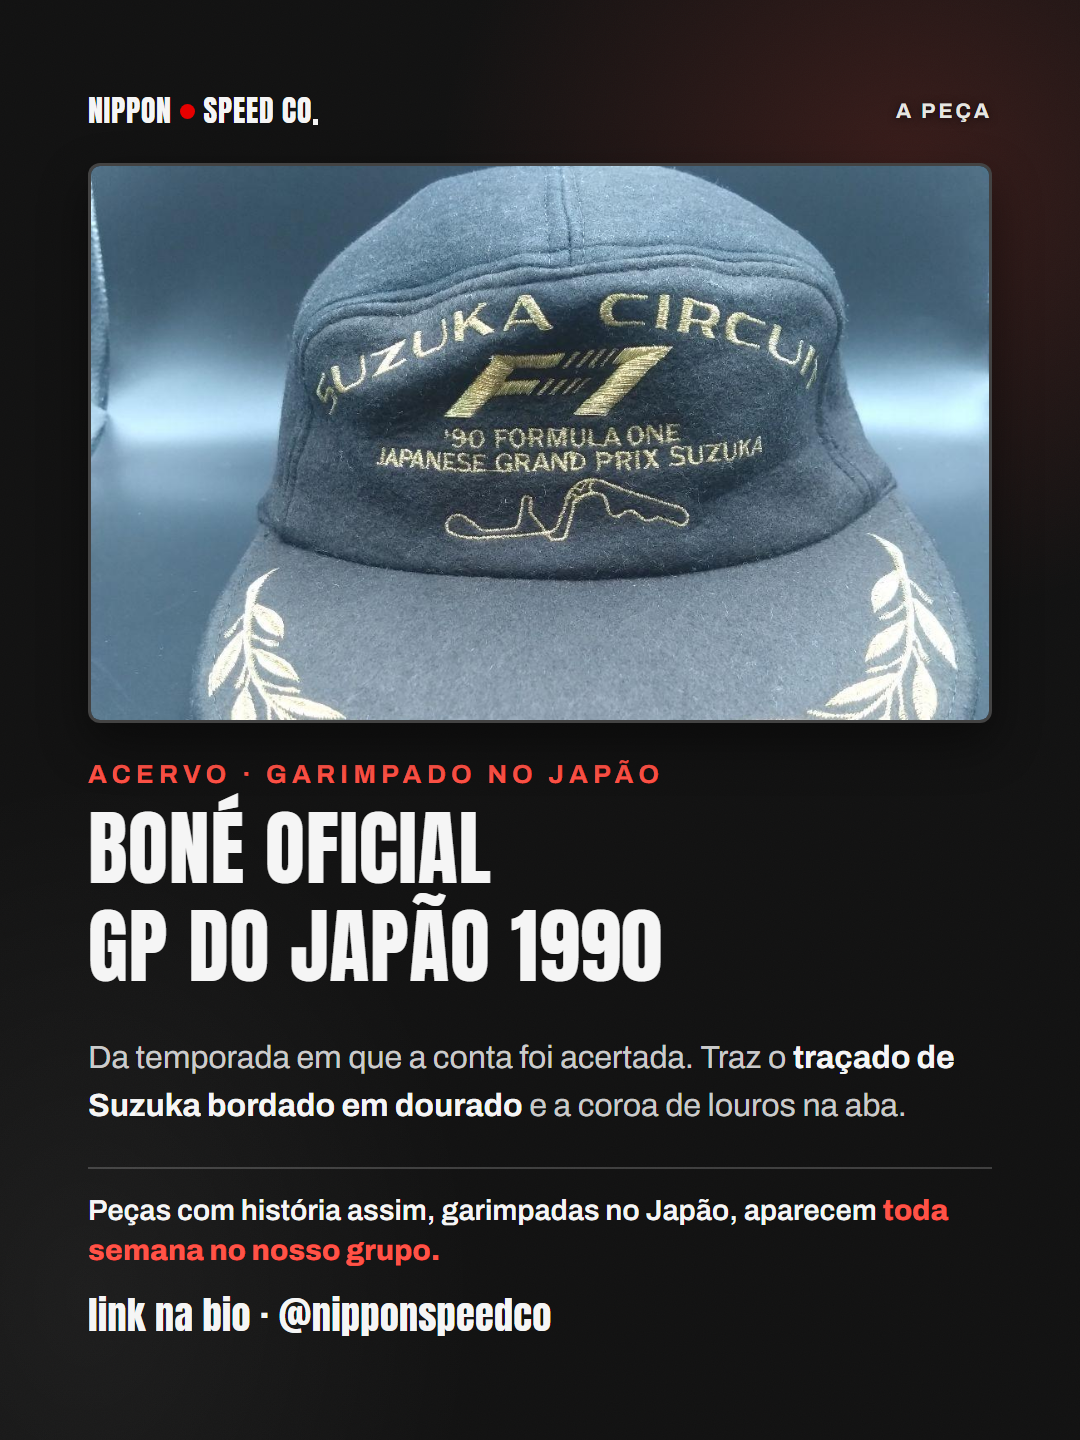
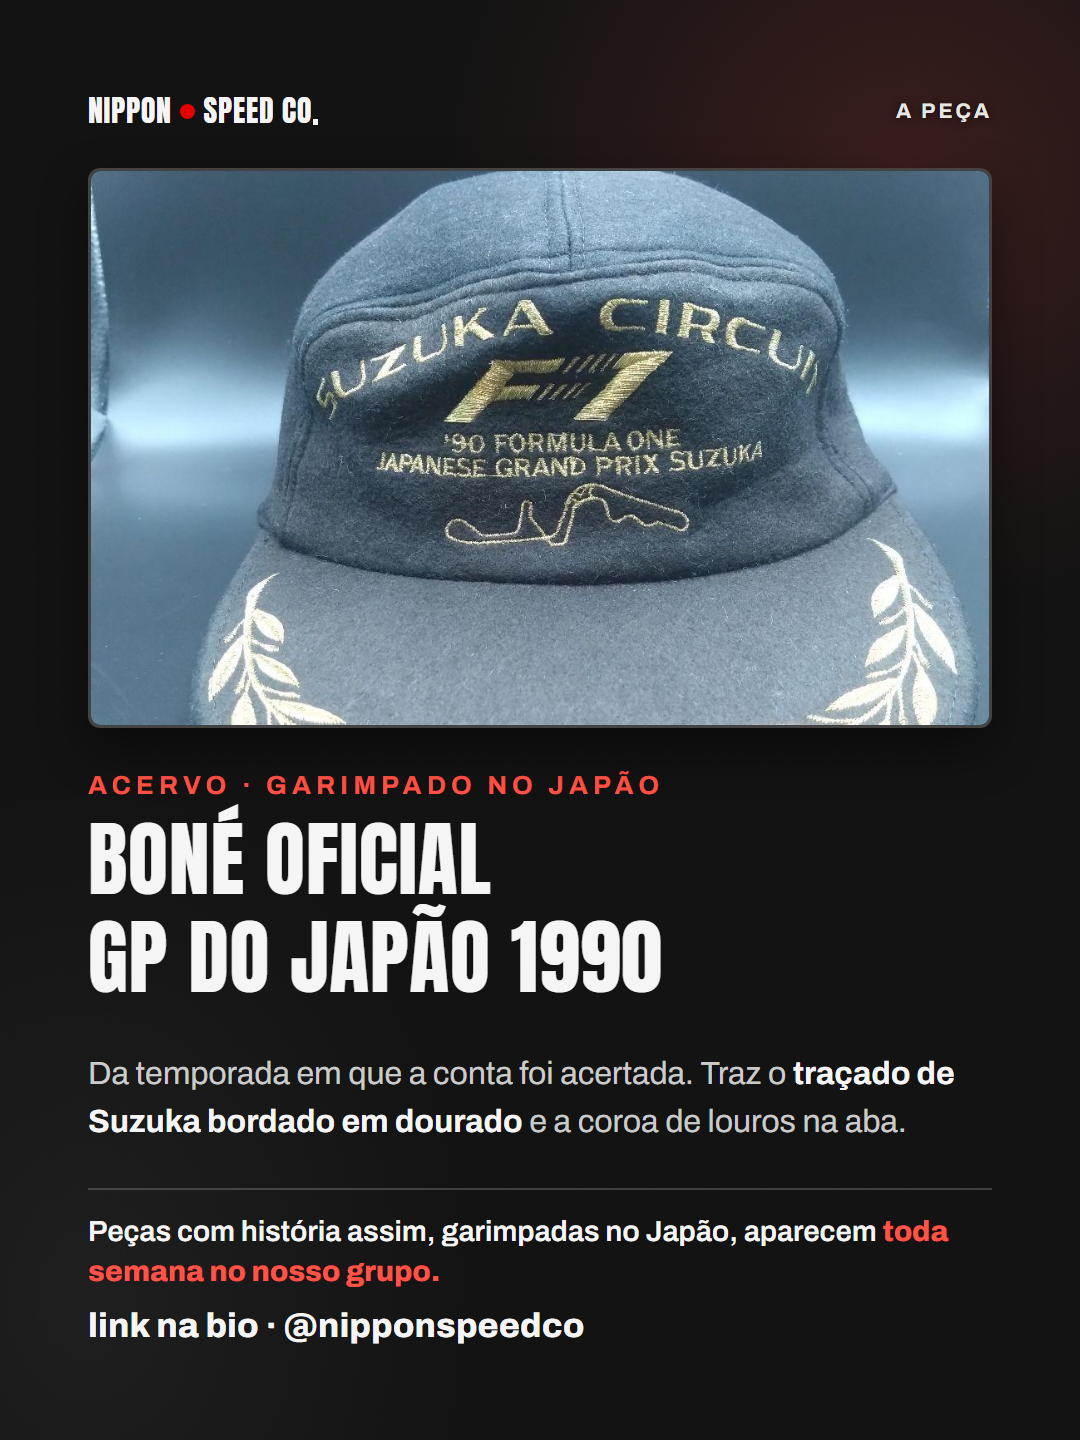
fix(feed): handle em Archivo (Anton caixa baixa perdia o pingo do i) + regra de eyebrow excepcional e armadilha do waiver falso nas skills

Changed region(s): [[0.0611, 0.0938, 0.9167, 0.6875], [0.0611, 0.7188, 0.8861, 0.9375], [0.0917, 0.2812, 0.1222, 0.3125]]

diff --git a/marca/conteudo/storytelling/04-suzuka-cobrou-duas-vezes/post.html b/marca/conteudo/storytelling/04-suzuka-cobrou-duas-vezes/post.html
@@ -4,7 +4,12 @@
 <meta charset="utf-8"/>
 <meta name="viewport" content="width=1080, initial-scale=1"/>
 <title>Nippon Speed Co. · Suzuka cobrou duas vezes (carrossel feed)</title>
-<!-- impeccable-disable tight-leading repeated-section-kickers -- Anton condensed (~1.28x); tight leading intencional (waiver do design system V1). Kickers = capítulos distintos da narrativa (1989 / 1989 / 1990), não scaffold repetido. Corpo 1.5. -->
+<!-- impeccable-disable tight-leading -- Anton condensed (~1.28x); tight leading intencional (waiver do design system V1). Corpo 1.5. -->
+<!-- WAIVER REMOVIDO em 23/07 (critique, P1): `repeated-section-kickers` estava waivado com justificativa
+     FALSA ("kickers = 1989/1989/1990"). Aqueles anos são o `.chap`, outro elemento, no canto superior
+     direito. O `.eyebrow` waivado é "COMPANHEIROS DE EQUIPE" / "A DECISÃO QUE VIROU POLÊMICA" / etc, em
+     6 de 6 slides: é scaffold repetido, é a anti-referência declarada no PRODUCT.md, e o waiver estava
+     escondendo isso do detector. Defeito conhecido e aberto neste post; as direções novas atacam ele. -->
 <link rel="preconnect" href="https://fonts.googleapis.com"/>
 <link rel="preconnect" href="https://fonts.gstatic.com" crossorigin/>
 <link href="https://fonts.googleapis.com/css2?family=Anton&family=Archivo:wght@400;500;600;700;800&display=swap" rel="stylesheet"/>
@@ -92,7 +97,9 @@ h1,h2{ font-family:"Anton", sans-serif; font-weight:400; margin:0; text-transfor
 .cta{ display:flex; flex-direction:column; gap:14px; padding-top:22px; border-top:2px solid rgba(245,245,245,.2); }
 .cta-line{ margin:0; font-size:29px; line-height:1.4; color:var(--paper); font-weight:600; }
 .cta-line b{ color:var(--red-bright); }
-.cta-handle{ font-family:"Anton",sans-serif; text-transform:lowercase; font-size:38px; letter-spacing:.01em; color:var(--paper); }
+/* Archivo, não Anton: condensada de display em caixa BAIXA perde o pingo do "i", e
+   "link na bio" lia como "llnk na blo". Handle e CTA vão sempre em fonte de corpo. */
+.cta-handle{ font-family:"Archivo",sans-serif; font-weight:800; text-transform:lowercase; font-size:34px; letter-spacing:.005em; color:var(--paper); }
 </style>
 </head>
 <body>

diff --git a/.claude/skills/post-feed/template.html b/.claude/skills/post-feed/template.html
@@ -55,6 +55,12 @@ h1,h2{ font-family:"Anton", sans-serif; font-weight:400; margin:0; text-transfor
 
 
 .slide-photo .brandline-txt, .slide-cover .brandline-txt{ text-shadow:0 1px 10px rgba(0,0,0,.6); }
+/* ⚠ EYEBROW = USO EXCEPCIONAL, NÃO GRAMÁTICA DE SEÇÃO.
+   Rótulo minúsculo em caixa alta tracked acima de TODO título é anti-referência declarada no PRODUCT.md
+   ("slide de apresentação corporativa") e o tell nº1 de IA numa peça. No carrossel 04 ele estava em 6 de 6
+   slides e foi o P1 do critique. Regra: no máximo 1 slide, e só quando for voz deliberada com informação
+   real. Nos capítulos, quem já carrega informação é o ANO (`.chap`) — aumentar ele em vez de pôr um
+   segundo rótulo por cima. NÃO waivar `repeated-section-kickers` para silenciar isso. */
 .eyebrow{ font-family:"Archivo",sans-serif; font-weight:700; text-transform:uppercase; letter-spacing:.2em;
   font-size:26px; color:var(--red-bright); margin:0; }
 .slide-paper .eyebrow{ color:var(--red); }
@@ -107,7 +113,9 @@ h1,h2{ font-family:"Anton", sans-serif; font-weight:400; margin:0; text-transfor
 .cta{ display:flex; flex-direction:column; gap:14px; padding-top:22px; border-top:2px solid var(--hair); }
 .cta-line{ margin:0; font-size:29px; line-height:1.4; color:var(--ink); font-weight:600; }
 .cta-line b{ color:var(--red); }
-.cta-handle{ font-family:"Anton",sans-serif; text-transform:lowercase; font-size:38px; letter-spacing:.01em; color:var(--ink); }
+/* Archivo, não Anton: condensada de display em caixa BAIXA perde o pingo do "i", e
+   "link na bio" lia como "llnk na blo". Handle e CTA vão sempre em fonte de corpo. */
+.cta-handle{ font-family:"Archivo",sans-serif; font-weight:800; text-transform:lowercase; font-size:34px; letter-spacing:.005em; color:var(--ink); }
 </style>
 </head>
 <body>

diff --git a/.claude/skills/post-from-idea/SKILL.md b/.claude/skills/post-from-idea/SKILL.md
@@ -69,7 +69,10 @@ Daqui, **siga o `/post-feed`** (não reimplemente): monte o `post.html` a partir
 **Armadilha de tipografia (Anton + acento).** Em caixa alta com fonte condensada, `line-height` apertado faz o **diacrítico da linha de baixo encostar na linha de cima**: no `04`, o til de "JAPÃO" tocou a barriga do "O" acima e "DO" passou a ler "DQ". `.94` quebrava, `1.06` ainda quebrava, **`1.2` resolveu**. Se o título tiver Ã/Õ/Â/Ê, dê folga. **O detector não pega isso** — só a leitura do PNG.
 
 ### 5b. Os três gates (obrigatórios, nessa ordem)
-1. **Detector (determinístico).** `node .claude/skills/impeccable/scripts/detect.mjs --json <post.html>` → **exit 0**. Falso-positivo conhecido só se waivado inline **com motivo escrito** (`<!-- impeccable-disable <regra> -- motivo -->`), porque o `post.html` é documento standalone. Já mapeados: Anton ~1.28× → `tight-leading`; kickers de capítulo → `repeated-section-kickers`.
+1. **Detector (determinístico).** Rodar **da pasta da frente** (o `context.mjs` do impeccable resolve a raiz do projeto pelo cwd; da raiz do vault ele declara o vault inteiro): `node .claude/skills/impeccable/scripts/detect.mjs --json <post.html>` → **exit 0**.
+   > ⚠ **Armadilha do waiver falso.** Waiver exige motivo **verdadeiro e que aponte o elemento certo**. No 04 havia um waiver de `repeated-section-kickers` justificado com "são os anos da narrativa" — mas os anos eram outro elemento, e o que estava sendo silenciado era andaime repetido em 6 de 6 slides, justamente a anti-referência do `PRODUCT.md`. **Waiver errado esconde defeito real de todo mundo.** Na dúvida, deixe o detector reclamar.
+   > Falso-positivo legítimo já mapeado: Anton ~1.28× → `tight-leading`.
+   > **Verde no detector não é prova de qualidade:** ele deu exit 0 numa peça com dois defeitos reais (colisão de diacrítico e capa que falhava a miniatura). Quem pega isso é o gate 3.
 2. **`/impeccable critique <post.html>`** — register **`brand.md`** (carrossel = o design É o produto). Roda review de design + detector em avaliações isoladas e sintetiza, triando falso-positivo. Resolva P0/P1 ou justifique por escrito.
 3. **Leitura visual dos PNGs.** Abra **cada slide** e critique enquadramento, legibilidade do texto sobre foto, hierarquia e **continuidade da sequência** (o detector olha 1 arquivo, não 5 peças). **Screenshot que não foi lido não conta.** Iterar e re-renderizar faz parte; entregar na primeira tentativa sem olhar, não.
 4. **Gate factual.** Cada capítulo confere ano da foto × afirmação do texto, usando o discriminador visual registrado no `mood/index.json`.
